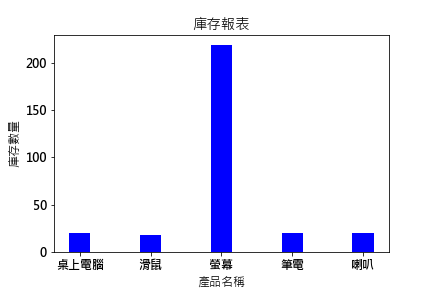
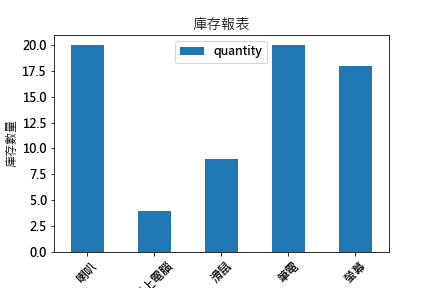
0726

diff --git a/python/專案2/主畫面 - 0726.py b/python/專案2/主畫面 - 0726.py
@@ -286,22 +286,24 @@ def show_sell_figue():
 def showfigue():
     db = pymysql.connect( "Localhost"  ,'root' ,'1234' ,'test' ,charset='utf8')
     test = db.cursor() 
-    df=pd.read_sql("""SELECT name , quantity FROM momom GROUP BY name""",con=db)
-
-
-    df.plot.bar(x='name',y='quantity')
+    df=pd.read_sql("""SELECT * FROM momom""",con=db)
+    print(df)
+    db.close()
+    x=df['name']
+    y=df['quantity']
+    print(x)
+    print(y)
     plt.title('庫存報表')#圖表的標題
     plt.xlabel('產品名稱')#x座標標題
     plt.ylabel('庫存數量')#y座標標題
-    plt.xticks(rotation=45 )
+    plt.bar(x,y,label='a',width=0.3,color='b') #在對齊為邊緣下,width正值靠右,負值往左
     plt.savefig('figure.png')
-    
+    print("**************************************************************")
     w =Toplevel()
     w.title("庫存系統")
     w.geometry("550x430")    
     fig=PhotoImage(file="figure.png")  
     Label(w,image=fig).pack()
-    db.close()
     w.mainloop()    
     
 
